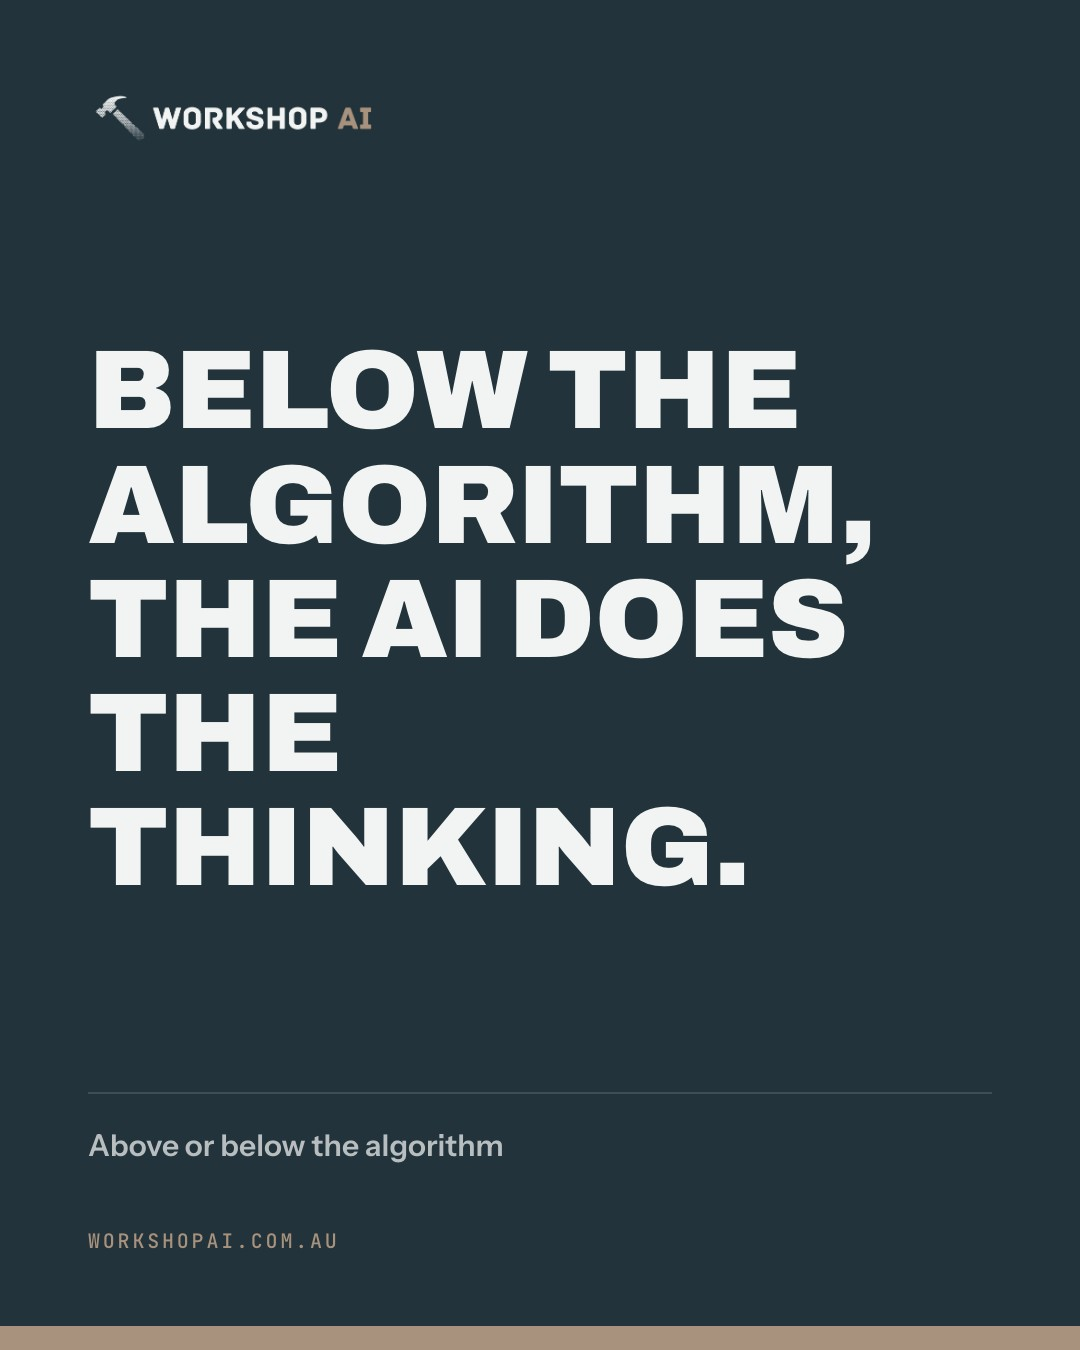
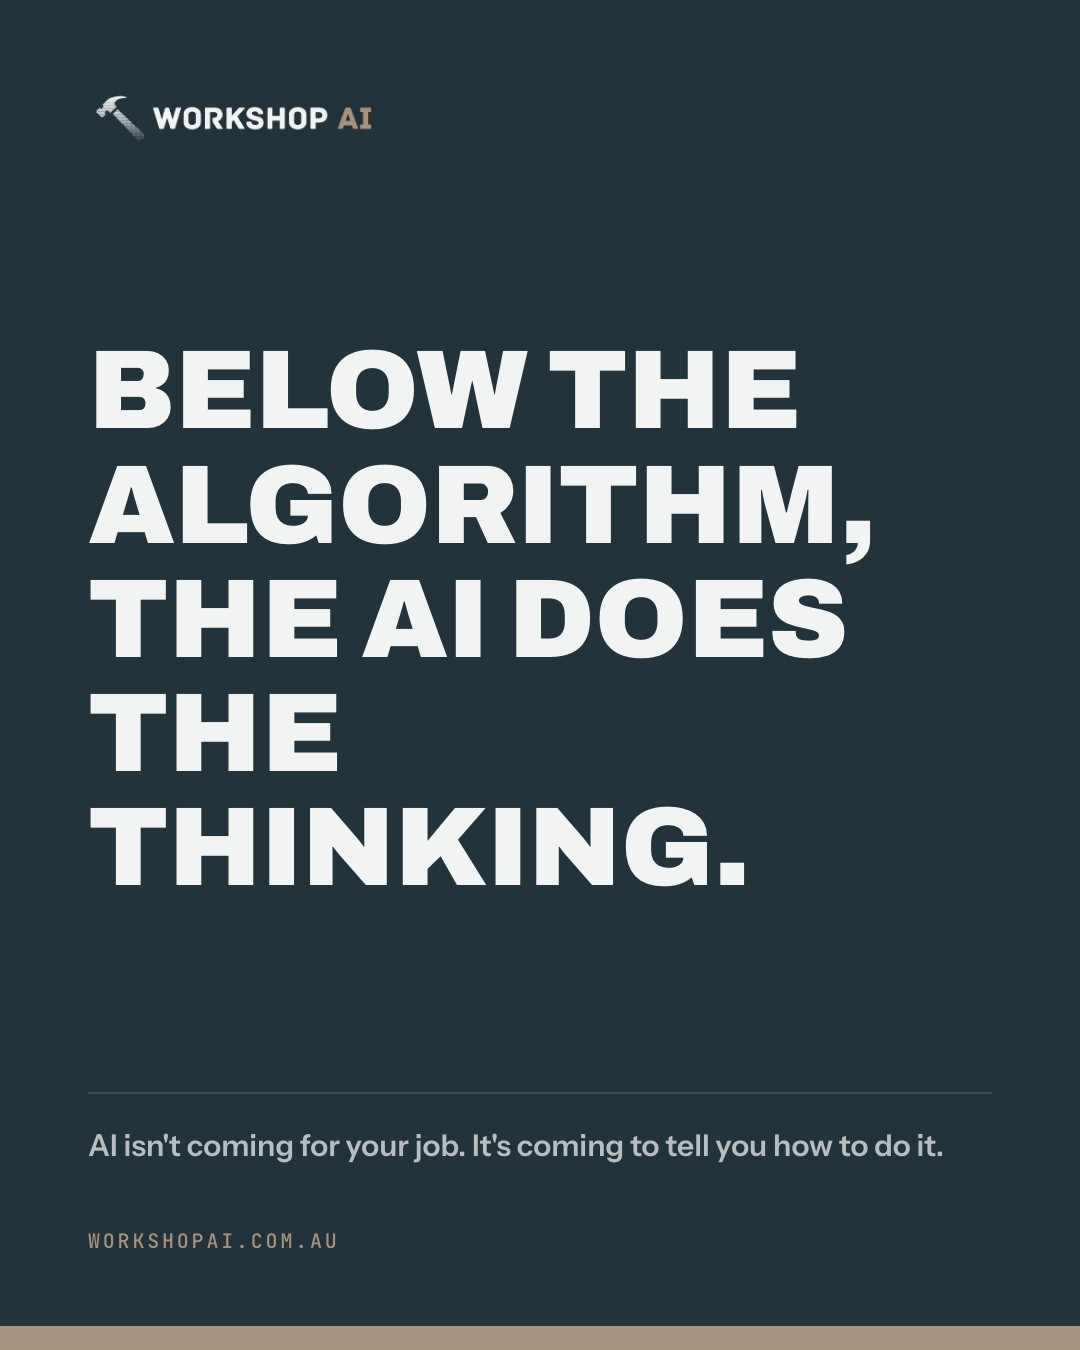
Retitle: AI isn't coming for your job. It's coming to tell you how to do it.

Changed region(s): [[0.0917, 0.84, 0.8861, 0.8711]]

diff --git a/blog/above-or-below-the-algorithm/index.html b/blog/above-or-below-the-algorithm/index.html
@@ -3,7 +3,7 @@
 <head>
 <meta charset="UTF-8" />
 <meta name="viewport" content="width=device-width, initial-scale=1.0" />
-<title>Above or below the algorithm | Workshop AI</title>
+<title>AI isn&#x27;t coming for your job. It&#x27;s coming to tell you how to do it. | Workshop AI</title>
 <meta name="description" content="Tradies are less likely to be replaced by AI, but their jobs will still change. The real question is whether you end up above the algorithm, or below it." />
 <meta property="article:published_time" content="2026-11-19" />
 <meta property="article:modified_time" content="2026-11-19" />
@@ -14,16 +14,16 @@
 <meta property="og:type" content="article" />
 <meta property="og:site_name" content="Workshop AI" />
 <meta property="og:locale" content="en_AU" />
-<meta property="og:title" content="Above or below the algorithm | Workshop AI" />
+<meta property="og:title" content="AI isn&#x27;t coming for your job. It&#x27;s coming to tell you how to do it. | Workshop AI" />
 <meta property="og:description" content="Tradies are less likely to be replaced by AI, but their jobs will still change. The real question is whether you end up above the algorithm, or below it." />
 <meta property="og:url" content="https://workshopai.com.au/blog/above-or-below-the-algorithm/" />
 <meta property="og:image" content="https://workshopai.com.au/blog/above-or-below-the-algorithm/img-01.png" />
-<meta property="og:image:alt" content="Workshop AI title card reading Above or below the algorithm, with the line beneath: Is AI giving you your time back, or telling you what to do?" />
+<meta property="og:image:alt" content="Workshop AI title card reading AI isn&#x27;t coming for your job. It&#x27;s coming to tell you how to do it., with the line beneath: Is AI giving you your time back, or telling you what to do?" />
 <meta name="twitter:card" content="summary_large_image" />
-<meta name="twitter:title" content="Above or below the algorithm | Workshop AI" />
+<meta name="twitter:title" content="AI isn&#x27;t coming for your job. It&#x27;s coming to tell you how to do it. | Workshop AI" />
 <meta name="twitter:description" content="Tradies are less likely to be replaced by AI, but their jobs will still change. The real question is whether you end up above the algorithm, or below it." />
 <meta name="twitter:image" content="https://workshopai.com.au/blog/above-or-below-the-algorithm/img-01.png" />
-<meta name="twitter:image:alt" content="Workshop AI title card reading Above or below the algorithm, with the line beneath: Is AI giving you your time back, or telling you what to do?" />
+<meta name="twitter:image:alt" content="Workshop AI title card reading AI isn&#x27;t coming for your job. It&#x27;s coming to tell you how to do it., with the line beneath: Is AI giving you your time back, or telling you what to do?" />
 <meta name="author" content="Justin Watts, Workshop AI" />
 <!-- ga4:start (generated by _src/build.py) -->
 <script async src="https://www.googletagmanager.com/gtag/js?id=G-SB01RKTVMZ"></script>
@@ -431,14 +431,14 @@
   {
    "@type": "Article",
    "@id": "https://workshopai.com.au/blog/above-or-below-the-algorithm/#article",
-   "headline": "Above or below the algorithm",
+   "headline": "AI isn't coming for your job. It's coming to tell you how to do it.",
    "description": "Tradies are less likely to be replaced by AI, but their jobs will still change. The real question is whether you end up above the algorithm, or below it.",
    "url": "https://workshopai.com.au/blog/above-or-below-the-algorithm/",
    "mainEntityOfPage": "https://workshopai.com.au/blog/above-or-below-the-algorithm/",
    "image": {
     "@type": "ImageObject",
     "url": "https://workshopai.com.au/blog/above-or-below-the-algorithm/img-01.png",
-    "caption": "Workshop AI title card reading Above or below the algorithm, with the line beneath: Is AI giving you your time back, or telling you what to do?",
+    "caption": "Workshop AI title card reading AI isn't coming for your job. It's coming to tell you how to do it., with the line beneath: Is AI giving you your time back, or telling you what to do?",
     "width": 1600,
     "height": 900
    },
@@ -474,7 +474,7 @@
     {
      "@type": "ListItem",
      "position": 3,
-     "name": "Above or below the algorithm",
+     "name": "AI isn't coming for your job. It's coming to tell you how to do it.",
      "item": "https://workshopai.com.au/blog/above-or-below-the-algorithm/"
     }
    ]
@@ -494,7 +494,7 @@
 <header class="page-hero">
   <div class="wrap">
     <p class="eyebrow"><a href="/blog/">Blog</a></p>
-    <h1>Above or below the algorithm</h1>
+    <h1>AI isn&#x27;t coming for your job. It&#x27;s coming to tell you how to do it.</h1>
     <p class="lede">Tradies are less likely to be replaced by AI, but their jobs will still change. The real question is whether you end up above the algorithm, or below it.</p>
     <p class="byline">Written by Justin Watts, Director of <a href="/facts/">Workshop AI</a>, Hobsons Bay, Melbourne &middot; <time datetime="2026-11-19">19 November 2026</time></p>
   </div>

diff --git a/blog/index.html b/blog/index.html
@@ -442,7 +442,7 @@
     {
      "@type": "Article",
      "@id": "https://workshopai.com.au/blog/above-or-below-the-algorithm/#article",
-     "headline": "Above or below the algorithm",
+     "headline": "AI isn't coming for your job. It's coming to tell you how to do it.",
      "url": "https://workshopai.com.au/blog/above-or-below-the-algorithm/",
      "datePublished": "2026-11-19"
     }
@@ -474,7 +474,7 @@
 <ul class="post-list">
 <li><article>
   <time datetime="2026-11-19">19 November 2026</time>
-  <h2><a href="/blog/above-or-below-the-algorithm/">Above or below the algorithm</a></h2>
+  <h2><a href="/blog/above-or-below-the-algorithm/">AI isn&#x27;t coming for your job. It&#x27;s coming to tell you how to do it.</a></h2>
   <p>Tradies are less likely to be replaced by AI, but their jobs will still change. The real question is whether you end up above the algorithm, or below it.</p>
 </article></li>
 </ul>

diff --git a/_src/blog/above-or-below-the-algorithm.md b/_src/blog/above-or-below-the-algorithm.md
@@ -1,5 +1,5 @@
 ---
-title: Above or below the algorithm
+title: AI isn't coming for your job. It's coming to tell you how to do it.
 slug: above-or-below-the-algorithm
 status: pack-ready
 publish_date: 2026-11-19
@@ -9,7 +9,7 @@ client_named: no
 client_permission: na
 ---
 
-![Workshop AI title card reading Above or below the algorithm, with the line beneath: Is AI giving you your time back, or telling you what to do?](assets/img-01.png)
+![Workshop AI title card reading AI isn't coming for your job. It's coming to tell you how to do it., with the line beneath: Is AI giving you your time back, or telling you what to do?](assets/img-01.png)
 
 ### Who benefits from AI?
 
